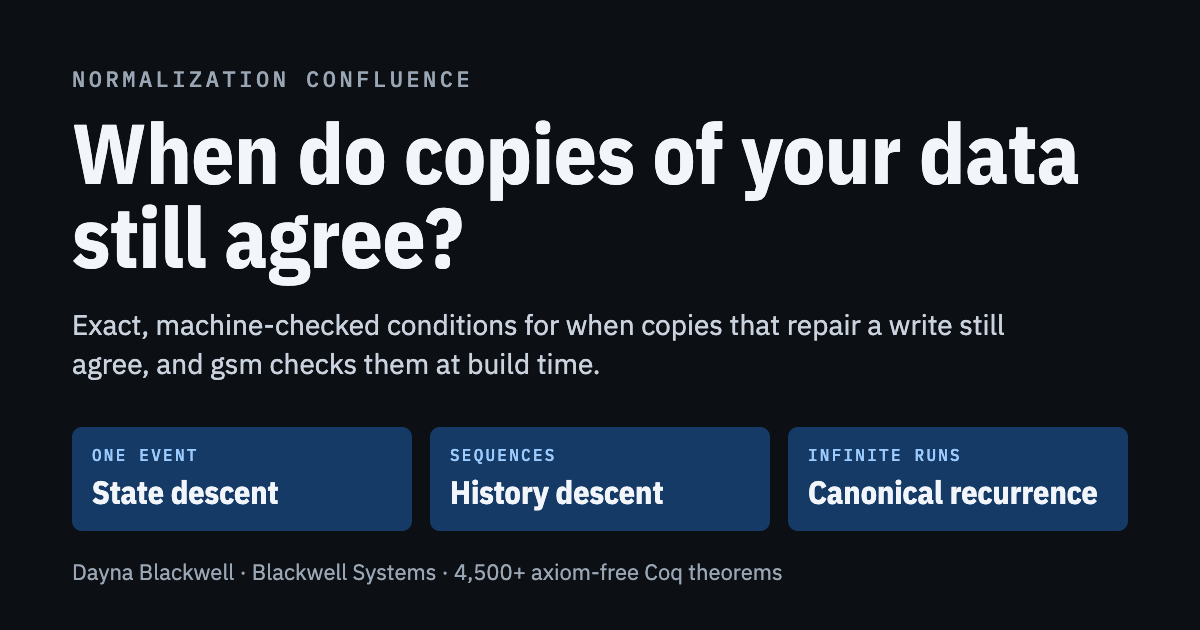
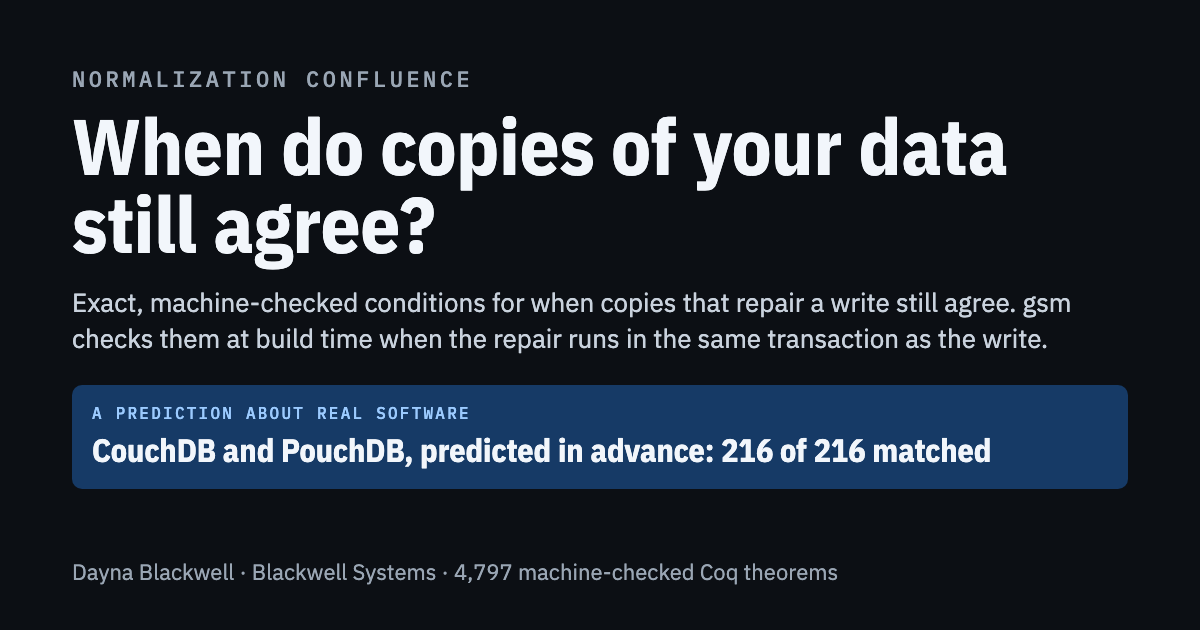
site: gsm checks the in-transaction case; plainer stream tile; social card refreshed (#207)

Changed region(s): [[0.0617, 0.181, 0.9558, 0.8444], [0.4008, 0.8746, 0.7092, 0.9349]]

diff --git a/docs/site/index.html b/docs/site/index.html
@@ -5,7 +5,7 @@
 <title>Normalization Confluence</title>
 <meta name="viewport" content="width=device-width, initial-scale=1">
 <meta name="color-scheme" content="dark light">
-<meta name="description" content="When do copies of your data still agree? Systems that keep copies often accept a write and then repair it, and the copies can still disagree. Exact, machine-checked conditions for when they agree, and gsm checks them at build time.">
+<meta name="description" content="When do copies of your data still agree? Systems that keep copies often accept a write and then repair it, and the copies can still disagree. Exact, machine-checked conditions for when they agree, and gsm checks them at build time for systems that repair in the same transaction as the write.">
 <meta property="og:title" content="Normalization Confluence">
 <meta property="og:description" content="When do copies of your data still agree after a write is repaired? Exact, machine-checked conditions, and a build-time checker. By Dayna Blackwell.">
 <meta property="og:type" content="website">
@@ -116,7 +116,7 @@ footer{border-top:1px solid var(--line);margin-top:48px;padding-top:20px;color:v
 
 <div class="kicker">Normalization Confluence</div>
 <h1>When do copies of your data still agree?</h1>
-<p class="thesis">Systems that keep copies across regions, devices or services often accept a write and then repair it: cap the stock, clamp a balance, run a compensating step. Every copy can run that repair correctly and the copies can still disagree. This work gives the exact conditions for when they agree, every one machine-checked, and gsm checks them at build time.</p>
+<p class="thesis">Systems that keep copies across regions, devices or services often accept a write and then repair it: cap the stock, clamp a balance, run a compensating step. Every copy can run that repair correctly and the copies can still disagree. This work gives the exact conditions for when they agree, every one machine-checked, and gsm checks them at build time for systems that repair in the same transaction as the write.</p>
 <p class="tagline"><i>Normalization confluence: an exact theory of when repair can replace commutativity.</i></p>
 <p class="proofline">Before running either system, it predicted which delivery orders bring a deleted document back in CouchDB and PouchDB. All 216 observations matched, and a behavior found along the way is <a href="https://github.com/apache/couchdb/issues/6162">reported upstream</a>.</p>
 <div class="cta">

diff --git a/docs/site/og.html b/docs/site/og.html
@@ -8,9 +8,9 @@
 html,body{margin:0;width:1200px;height:630px;background:#0C0F14;color:#F2F6FB;font-family:'IBM Plex Sans',Helvetica,Arial,sans-serif;overflow:hidden}
 .wrap{padding:64px 72px}
 .k{font-family:'IBM Plex Mono',Menlo,monospace;font-size:22px;letter-spacing:0.16em;color:#9AA6B4;text-transform:uppercase}
-h1{font-family:'IBM Plex Sans Condensed','Arial Narrow',sans-serif;font-weight:700;font-size:84px;line-height:1;margin:18px 0 26px}
-p{font-size:28px;line-height:1.4;color:#C9D2DD;margin:0;max-width:1000px}
-.row{display:flex;gap:18px;margin-top:44px}
+h1{font-family:'IBM Plex Sans Condensed','Arial Narrow',sans-serif;font-weight:700;font-size:78px;line-height:1;margin:14px 0 22px}
+p{font-size:26px;line-height:1.38;color:#C9D2DD;margin:0;max-width:1000px}
+.row{display:flex;gap:18px;margin-top:28px}
 .c{flex:1;border-radius:10px;padding:18px 20px;background:#163A66}
 .c .l{font-family:'IBM Plex Mono',Menlo,monospace;font-size:16px;letter-spacing:0.14em;color:#9CCBFF;text-transform:uppercase}
 .by{position:absolute;left:72px;bottom:44px;font-size:22px;color:#9AA6B4}
@@ -18,11 +18,7 @@ p{font-size:28px;line-height:1.4;color:#C9D2DD;margin:0;max-width:1000px}
 </style></head><body><div class="wrap">
 <div class="k">Normalization Confluence</div>
 <h1>When do copies of your data still agree?</h1>
-<p>Exact, machine-checked conditions for when copies that repair a write still agree, and gsm checks them at build time.</p>
-<div class="row">
-<div class="c"><div class="l">One event</div><div class="t">State descent</div></div>
-<div class="c"><div class="l">Sequences</div><div class="t">History descent</div></div>
-<div class="c"><div class="l">Infinite runs</div><div class="t">Canonical recurrence</div></div>
-</div>
-<div class="by">Dayna Blackwell · Blackwell Systems · 4,500+ axiom-free Coq theorems</div>
+<p>Exact, machine-checked conditions for when copies that repair a write still agree. gsm checks them at build time when the repair runs in the same transaction as the write.</p>
+<div class="row"><div class="c" style="flex:1"><div class="l">A prediction about real software</div><div class="t">CouchDB and PouchDB, predicted in advance: 216 of 216 matched</div></div></div>
+<div class="by">Dayna Blackwell · Blackwell Systems · 4,797 machine-checked Coq theorems</div>
 </div></body></html>

diff --git a/docs/atlas/regimes.js b/docs/atlas/regimes.js
@@ -351,7 +351,7 @@ window.ATLAS = {
     "mark": "iff",
     "name": "Stream processors",
     "id": "streams",
-    "plain": "Settled processors that saw the same events agree exactly when two events ready at once rejoin; under any order, when repaired events commute.",
+    "plain": "Settled processors agree exactly when two events ready together end in one result either way; if any order can happen, when repaired events commute.",
     "layer": "A",
     "shape": "one",
     "model": "delivery",
